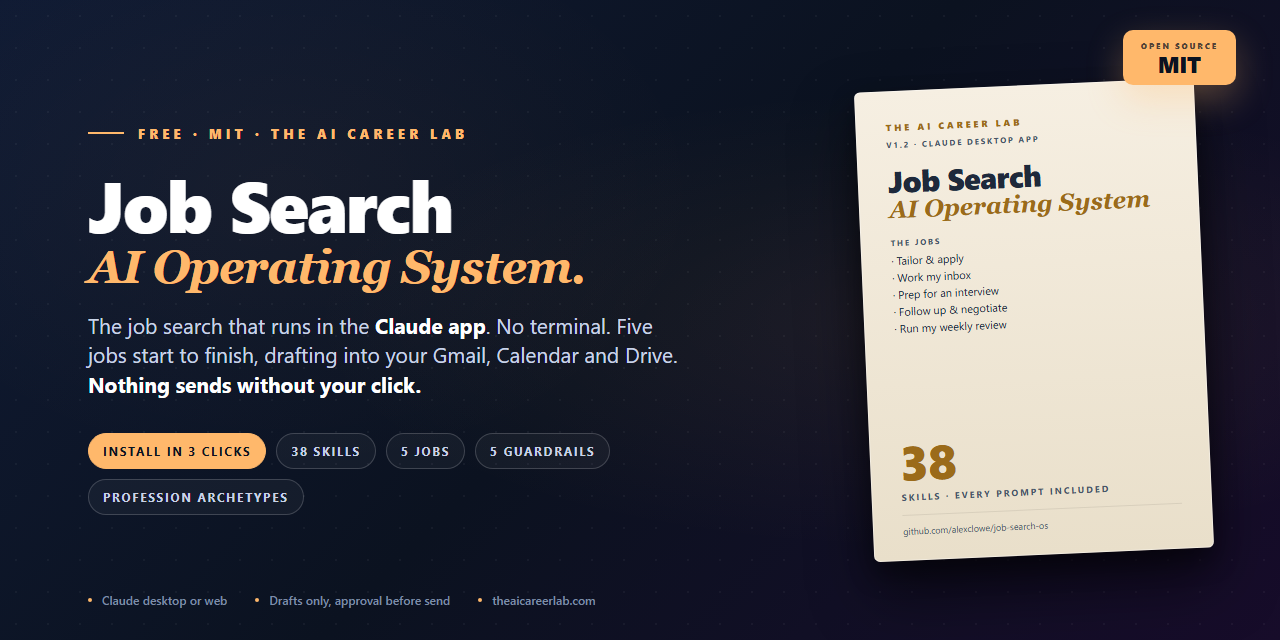
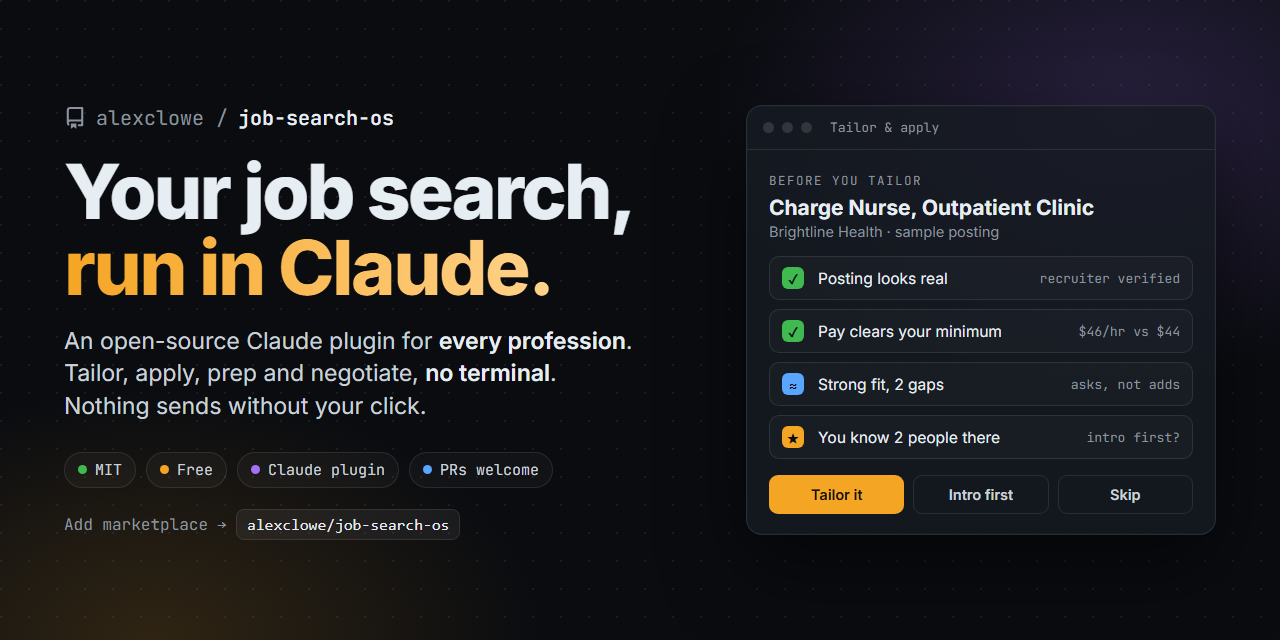
Sync job-search-os from ai-career-lab

diff --git a/assets/banner-src.html b/assets/banner-src.html
@@ -1,74 +1,107 @@
 <!doctype html>
-<html lang="en"><head><meta charset="utf-8"><title>Job Search AI Operating System — banner</title>
+<html lang="en">
+<head>
+<meta charset="utf-8">
+<title>job-search-os social preview</title>
+<link rel="preconnect" href="https://fonts.googleapis.com">
+<link href="https://fonts.googleapis.com/css2?family=Inter:wght@400;500;600;700;800&family=JetBrains+Mono:wght@400;500;600&display=swap" rel="stylesheet">
 <style>
-  html,body{margin:0;padding:0;background:#0b1220;-webkit-font-smoothing:antialiased}
-  :root{--nav:#0b1220;--nav-mid:#101b34;--purple:#170c2a;--amber:#ffb86b;--amber-deep:#9b6b1a;
-    --paper:#f6efe2;--paper-shadow:#e9dfca;--ink:#1e293b;--ink-light:#475569;
-    --text:#f5f5f5;--text-dim:#c9d4e8;--text-dimmer:#7f8da6}
-  .banner{width:1280px;height:640px;position:relative;overflow:hidden;box-sizing:border-box;padding:64px 88px;
-    color:var(--text);font-family:-apple-system,'Segoe UI',Helvetica,Arial,sans-serif;
-    background:radial-gradient(ellipse 80% 60% at 72% 50%, rgba(255,184,107,.07) 0%, transparent 60%),
-      radial-gradient(ellipse 60% 80% at 22% 30%, rgba(255,184,107,.04) 0%, transparent 55%),
-      linear-gradient(135deg, var(--nav-mid) 0%, var(--nav) 50%, var(--purple) 100%)}
-  .banner::before{content:"";position:absolute;inset:0;background-image:radial-gradient(rgba(255,255,255,.045) 1px, transparent 1px);background-size:32px 32px}
-  .left{position:relative;width:640px;height:100%;display:flex;flex-direction:column;justify-content:center}
-  .kicker{font-size:13px;letter-spacing:.32em;text-transform:uppercase;color:var(--amber);font-weight:800;margin-bottom:26px;display:flex;align-items:center;gap:14px}
-  .kicker::before{content:"";display:inline-block;width:36px;height:2px;background:var(--amber)}
-  h1{font-size:72px;line-height:.98;margin:0 0 4px;letter-spacing:-.025em;font-weight:800;color:#fff}
-  .accent{font-size:46px;line-height:1.1;margin:0 0 18px;font-style:italic;font-family:Georgia,'Times New Roman',serif;color:var(--amber);font-weight:700;letter-spacing:-.02em}
-  .sub{font-size:21px;line-height:1.4;margin:0 0 34px;color:var(--text-dim);max-width:600px}
-  .sub b{color:#fff;font-weight:700}
-  .pills{display:flex;gap:10px;flex-wrap:wrap}
-  .pill{font-size:12px;letter-spacing:.14em;text-transform:uppercase;font-weight:700;color:var(--text-dim);
-    border:1px solid rgba(255,255,255,.18);border-radius:999px;padding:9px 14px;background:rgba(255,255,255,.04)}
-  .pill.hot{color:var(--nav);background:var(--amber);border-color:var(--amber)}
-  .doc-wrap{position:absolute;right:76px;top:50%;transform:translateY(-50%) rotate(-2.5deg)}
-  .doc{width:340px;height:470px;background:linear-gradient(180deg,var(--paper) 0%,var(--paper-shadow) 100%);border-radius:6px;padding:30px 30px 24px;box-sizing:border-box;color:var(--ink);
-    box-shadow:0 30px 60px rgba(0,0,0,.55),0 12px 24px rgba(0,0,0,.35),inset 0 0 0 1px rgba(255,255,255,.4);display:flex;flex-direction:column}
-  .doc .dk{font-size:9px;letter-spacing:.32em;text-transform:uppercase;color:var(--amber-deep);font-weight:800;margin-bottom:6px}
-  .doc .ver{font-size:8px;letter-spacing:.22em;text-transform:uppercase;color:var(--ink-light);font-weight:700;margin-bottom:16px}
-  .doc h2{font-size:30px;line-height:1.04;margin:0;font-weight:800;letter-spacing:-.02em}
-  .doc .da{font-size:24px;line-height:1.08;margin:0 0 14px;font-style:italic;font-family:Georgia,'Times New Roman',serif;color:var(--amber-deep);font-weight:700}
-  .doc .jt{font-size:8px;letter-spacing:.22em;text-transform:uppercase;color:var(--ink-light);font-weight:700;margin-bottom:4px}
-  .doc .j{font-size:11px;line-height:1.55;padding-left:12px;text-indent:-12px}
-  .doc .dn{font-size:48px;font-weight:800;color:var(--amber-deep);line-height:1;letter-spacing:-.02em;margin:auto 0 0}
-  .doc .dl{font-size:9px;letter-spacing:.22em;text-transform:uppercase;color:var(--ink-light);margin-top:6px;font-weight:700}
-  .doc .by{font-size:9px;color:var(--ink-light);margin-top:12px;border-top:1px solid rgba(0,0,0,.08);padding-top:9px}
-  .badge{position:absolute;top:30px;right:44px;background:var(--amber);color:var(--nav);padding:10px 18px;border-radius:10px;box-shadow:0 14px 36px rgba(255,184,107,.3);text-align:center;font-weight:800}
-  .badge .pl{font-size:8px;letter-spacing:.24em;text-transform:uppercase;opacity:.7;display:block;margin-bottom:2px}
-  .badge .pn{font-size:22px;line-height:1;display:block}
-  .meta{position:absolute;left:88px;bottom:32px;display:flex;gap:28px;font-size:12px;color:var(--text-dimmer);font-weight:500}
-  .meta .b{display:inline-block;width:4px;height:4px;border-radius:50%;background:var(--amber);margin-right:10px;vertical-align:3px}
-</style></head>
-<body><div class="banner">
-  <div class="left">
-    <div class="kicker">Free · MIT · The AI Career Lab</div>
-    <h1>Job Search</h1>
-    <div class="accent">AI Operating System.</div>
-    <p class="sub">The job search that runs in the <b>Claude app</b>. No terminal. Five jobs start to finish, drafting into your Gmail, Calendar and Drive. <b>Nothing sends without your click.</b></p>
-    <div class="pills">
-      <span class="pill hot">Install in 3 clicks</span>
-      <span class="pill">38 skills</span>
-      <span class="pill">5 jobs</span>
-      <span class="pill">5 guardrails</span>
-      <span class="pill">Profession archetypes</span>
+  :root {
+    --bg: #0a0c10;
+    --panel: rgba(22, 27, 34, 0.82);
+    --line: rgba(240, 246, 252, 0.10);
+    --text: #e6edf3;
+    --muted: #8b949e;
+    --amber: #f5a524;
+    --green: #3fb950;
+    --blue: #58a6ff;
+    --violet: #a371f7;
+  }
+  * { box-sizing: border-box; margin: 0; padding: 0; }
+  html, body { width: 1280px; height: 640px; overflow: hidden; background: var(--bg); }
+  body {
+    font-family: Inter, system-ui, sans-serif;
+    color: var(--text);
+    position: relative;
+    background:
+      radial-gradient(circle at 1px 1px, rgba(240,246,252,0.07) 1px, transparent 0) 0 0 / 28px 28px,
+      radial-gradient(600px 380px at 88% 18%, rgba(163,113,247,0.20), transparent 70%),
+      radial-gradient(560px 360px at 12% 100%, rgba(245,165,36,0.16), transparent 70%),
+      var(--bg);
+  }
+  .wrap { position: absolute; inset: 56px 64px; display: grid; grid-template-columns: 1fr 470px; gap: 56px; align-items: center; }
+
+  .repo { font-family: "JetBrains Mono", monospace; font-size: 20px; color: var(--muted); display: flex; align-items: center; gap: 10px; }
+  .repo svg { width: 22px; height: 22px; fill: var(--muted); }
+  .repo b { color: var(--text); font-weight: 600; }
+
+  h1 { margin-top: 22px; font-size: 76px; line-height: 1.0; font-weight: 800; letter-spacing: -2.5px; }
+  h1 span { background: linear-gradient(90deg, var(--amber), #ffd28a); -webkit-background-clip: text; background-clip: text; color: transparent; }
+  .tag { margin-top: 20px; font-size: 23px; line-height: 1.4; color: #c9d1d9; max-width: 600px; }
+  .tag b { color: var(--text); font-weight: 600; }
+
+  .chips { margin-top: 30px; display: flex; gap: 10px; flex-wrap: wrap; }
+  .chip { font-family: "JetBrains Mono", monospace; font-size: 15px; padding: 7px 13px; border-radius: 999px; border: 1px solid var(--line); color: #c9d1d9; background: rgba(240,246,252,0.03); display: inline-flex; align-items: center; gap: 8px; }
+  .dot { width: 9px; height: 9px; border-radius: 50%; display: inline-block; }
+
+  .install { margin-top: 26px; font-family: "JetBrains Mono", monospace; font-size: 16px; color: var(--muted); }
+  .install code { color: var(--text); background: rgba(240,246,252,0.06); border: 1px solid var(--line); padding: 5px 10px; border-radius: 8px; }
+
+  /* app window */
+  .win { background: var(--panel); border: 1px solid var(--line); border-radius: 16px; box-shadow: 0 30px 80px rgba(0,0,0,0.55), 0 0 0 1px rgba(255,255,255,0.02) inset; overflow: hidden; }
+  .bar { display: flex; align-items: center; gap: 8px; padding: 13px 16px; border-bottom: 1px solid var(--line); }
+  .bar i { width: 11px; height: 11px; border-radius: 50%; background: #30363d; }
+  .bar .t { margin-left: 10px; font-family: "JetBrains Mono", monospace; font-size: 13px; color: var(--muted); }
+  .body { padding: 22px 22px 20px; }
+  .kicker { font-family: "JetBrains Mono", monospace; font-size: 12.5px; letter-spacing: 1.5px; color: var(--muted); text-transform: uppercase; }
+  .title { margin-top: 6px; font-size: 21px; font-weight: 700; }
+  .sub { margin-top: 3px; font-size: 14.5px; color: var(--muted); }
+  .rows { margin-top: 16px; display: grid; gap: 9px; }
+  .row { display: grid; grid-template-columns: 26px 1fr auto; align-items: center; gap: 10px; padding: 10px 12px; border: 1px solid var(--line); border-radius: 10px; background: rgba(240,246,252,0.025); font-size: 15.5px; }
+  .ic { width: 22px; height: 22px; border-radius: 6px; display: grid; place-items: center; font-size: 13px; font-weight: 700; color: #0a0c10; }
+  .row .k { color: var(--muted); font-family: "JetBrains Mono", monospace; font-size: 13px; }
+  .acts { margin-top: 16px; display: flex; gap: 9px; }
+  .btn { flex: 1; text-align: center; font-size: 14.5px; font-weight: 600; padding: 10px 0; border-radius: 9px; border: 1px solid var(--line); color: #c9d1d9; }
+  .btn.primary { background: var(--amber); color: #1a1204; border-color: transparent; }
+</style>
+</head>
+<body>
+  <div class="wrap">
+    <div>
+      <div class="repo">
+        <svg viewBox="0 0 16 16" aria-hidden="true"><path d="M2 2.5A2.5 2.5 0 0 1 4.5 0h8.75a.75.75 0 0 1 .75.75v12.5a.75.75 0 0 1-.75.75h-2.5a.75.75 0 0 1 0-1.5h1.75v-2h-8a1 1 0 0 0-.714 1.7.75.75 0 1 1-1.072 1.05A2.495 2.495 0 0 1 2 11.5Zm10.5-1h-8a1 1 0 0 0-1 1v6.708A2.486 2.486 0 0 1 4.5 9h8ZM5 12.25a.25.25 0 0 1 .25-.25h3.5a.25.25 0 0 1 .25.25v3.25a.25.25 0 0 1-.4.2l-1.45-1.087a.249.249 0 0 0-.3 0L5.4 15.7a.25.25 0 0 1-.4-.2Z"/></svg>
+        alexclowe / <b>job-search-os</b>
+      </div>
+      <h1>Your job search,<br><span>run in Claude.</span></h1>
+      <p class="tag">An open-source Claude plugin for <b>every profession</b>.<br>Tailor, apply, prep and negotiate, <b>no terminal</b>.<br>Nothing sends without your click.</p>
+      <div class="chips">
+        <span class="chip"><span class="dot" style="background:var(--green)"></span>MIT</span>
+        <span class="chip"><span class="dot" style="background:var(--amber)"></span>Free</span>
+        <span class="chip"><span class="dot" style="background:var(--violet)"></span>Claude plugin</span>
+        <span class="chip"><span class="dot" style="background:var(--blue)"></span>PRs welcome</span>
+      </div>
+      <p class="install">Add marketplace → <code>alexclowe/job-search-os</code></p>
+    </div>
+
+    <div class="win">
+      <div class="bar"><i></i><i></i><i></i><span class="t">Tailor &amp; apply</span></div>
+      <div class="body">
+        <div class="kicker">Before you tailor</div>
+        <div class="title">Charge Nurse, Outpatient Clinic</div>
+        <div class="sub">Brightline Health · sample posting</div>
+        <div class="rows">
+          <div class="row"><span class="ic" style="background:var(--green)">✓</span>Posting looks real<span class="k">recruiter verified</span></div>
+          <div class="row"><span class="ic" style="background:var(--green)">✓</span>Pay clears your minimum<span class="k">$46/hr vs $44</span></div>
+          <div class="row"><span class="ic" style="background:var(--blue)">≈</span>Strong fit, 2 gaps<span class="k">asks, not adds</span></div>
+          <div class="row"><span class="ic" style="background:var(--amber)">★</span>You know 2 people there<span class="k">intro first?</span></div>
+        </div>
+        <div class="acts">
+          <span class="btn primary">Tailor it</span>
+          <span class="btn">Intro first</span>
+          <span class="btn">Skip</span>
+        </div>
+      </div>
     </div>
   </div>
-  <div class="doc-wrap"><div class="doc">
-    <div class="dk">The AI Career Lab</div>
-    <div class="ver">v1.2 · Claude desktop app</div>
-    <h2>Job Search</h2>
-    <div class="da">AI Operating System</div>
-    <div class="jt">The jobs</div>
-    <div class="j">· Tailor &amp; apply</div><div class="j">· Work my inbox</div><div class="j">· Prep for an interview</div><div class="j">· Follow up &amp; negotiate</div><div class="j">· Run my weekly review</div>
-    <div class="dn">38</div>
-    <div class="dl">Skills · every prompt included</div>
-    <div class="by">github.com/alexclowe/job-search-os</div>
-  </div></div>
-  <div class="badge"><span class="pl">Open source</span><span class="pn">MIT</span></div>
-  <div class="meta">
-    <span><span class="b"></span>Claude desktop or web</span>
-    <span><span class="b"></span>Drafts only, approval before send</span>
-    <span><span class="b"></span>theaicareerlab.com</span>
-  </div>
-</div></body></html>
+</body>
+</html>
